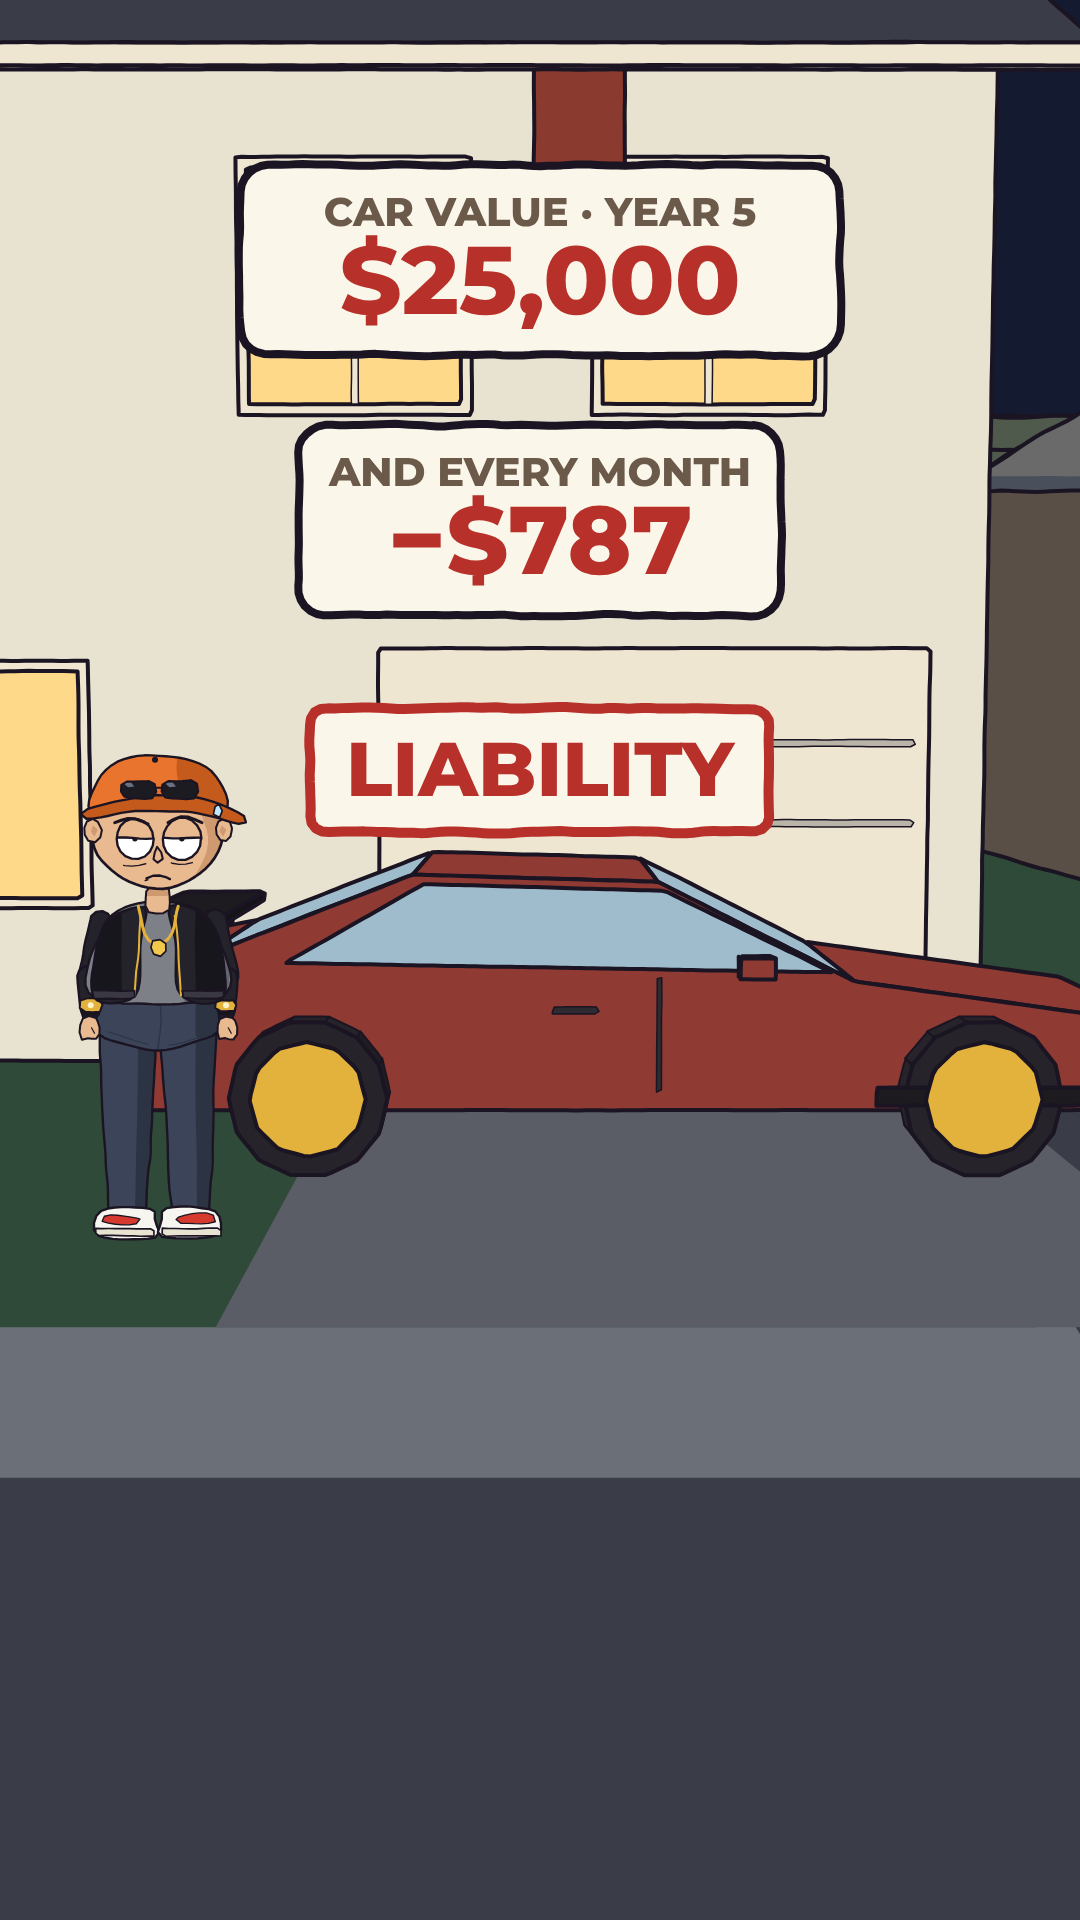
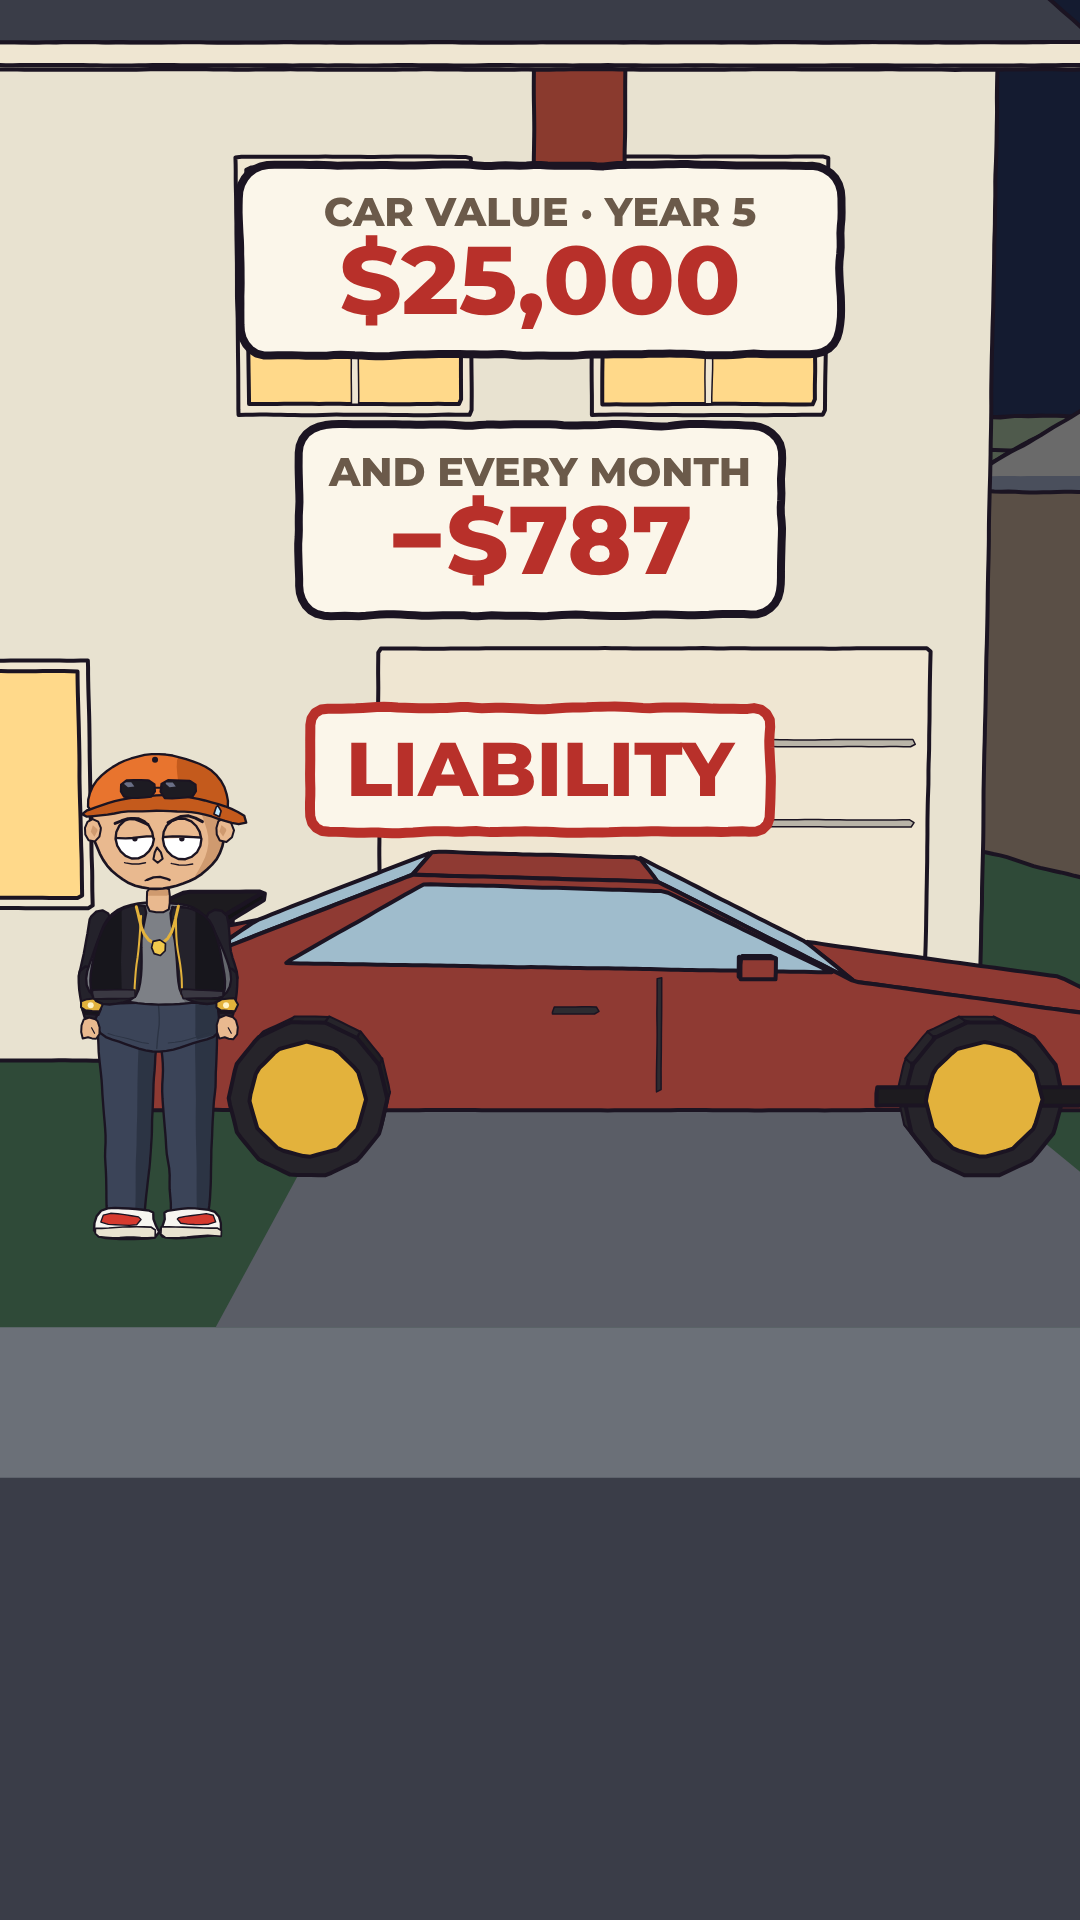
Town: the ground no longer slides with the camera; ep 3 re-rendered
Roads, pavements, grass and driveways are 600 m quads. In a low, close camera some corners fall behind it, and the
projection clamps them to a fixed spot on screen, so the ground's edge moved with the camera (seen in ep 3's pan between
the houses). gfill/gline clip ground shapes in 3D against a plane just in front of the camera before projecting.

Claude-Session: https://claude.ai/code/session_016c6ARmPUr2BrGtPLGExamv

diff --git a/reels/money/look2/wide.js b/reels/money/look2/wide.js
@@ -18,6 +18,16 @@ const view = { P: 9, pitch: .95, cx: 0, cy: 0, cz: 0, dist: 0 };   // dist > 0: 
 const SIN = () => Math.sin(view.pitch), COS = () => Math.cos(view.pitch);
 const sc = (x, z, h = 0) => view.dist ? view.P * view.dist / Math.max(.05, view.dist - ((z - view.cz) * SIN() + (h - view.cy) * COS())) : view.P;   // px per metre there
 const pj = (x, z, h = 0) => { const k = sc(x, z, h); return [540 + (x - view.cx) * k, 960 + ((z - view.cz) * COS() - (h - view.cy) * SIN()) * k]; };
+// Ground shapes (roads, pavements, grass, lots, driveways) are huge flat quads. A corner behind the camera cannot be projected:
+// sc() clamps its depth, so it lands at a fixed spot on screen and the ground's edge slides with the camera ("the road moves").
+// gfill clips the shape in 3D against a plane just in front of the camera before projecting it, so only what is in view is drawn.
+const depthAt = (x, z, h = 0) => view.dist ? view.dist - ((z - view.cz) * SIN() + (h - view.cy) * COS()) : 1;
+function clipFront(P, E = .3) {
+  const out = []; for (let i = 0; i < P.length; i++) { const a = P[i], b = P[(i + 1) % P.length], da = depthAt(...a) - E, db = depthAt(...b) - E;
+    if (da >= 0) out.push(a); if ((da >= 0) !== (db >= 0)) { const u = da / (da - db); out.push(a.map((v, k) => v + ((b[k] ?? 0) - v) * u)); } }
+  return out; }
+const gfill = (P, col, o = {}) => { const c = clipFront(P); if (c.length >= 3) fillOnly(c.map(p => pj(...p)), col, { boil: 0, ...o }); };
+const gline = (a, b, lw, o = {}) => { const c = clipFront([a, b, b]); if (c.length >= 2) stroke([pj(...c[0]), pj(...c[1])], lw, o); };
 // a box building: footprint x0..x1, z0..z1 (z grows toward the camera), height h; the roof and the front face show
 function building(x0, z0, x1, z1, h, wall, wallS, roof, { lit = .5, sign = null, seed = 1, door = false } = {}) {
   const f = [pj(x0, z1, 0), pj(x1, z1, 0), pj(x1, z1, h), pj(x0, z1, h)];
@@ -113,18 +123,18 @@ export function drawWide(t, cam = null, { tilt = true } = {}) { T_ = t;
   view.pitch = .78; view.P = 12.5 - t * .25; view.cx = 2 + t * .7; view.cy = 0; view.cz = 14 - t * .4; view.dist = 0; view.near = undefined; if (cam) Object.assign(view, cam);
   if (view.dist) view.near = Math.min(view.near ?? 1e9, eyeOf(view)[2]);   // nothing behind the camera
   g.setTransform(1, 0, 0, 1, 0, 0); g.fillStyle = C.sky; g.fillRect(0, 0, 1080, 1920);
-  fillOnly([pj(-300, -300), pj(300, -300), pj(300, 300), pj(-300, 300)], C.grass, { boil: 0 });
-  for (const z of ZS) { fillOnly([pj(-300, z - PW), pj(300, z - PW), pj(300, z + PW), pj(-300, z + PW)], C.walk, { boil: 0 }); }
-  for (const x of XS) { fillOnly([pj(x - PW, -300), pj(x + PW, -300), pj(x + PW, 300), pj(x - PW, 300)], C.walk, { boil: 0 }); }
-  for (const z of ZS) { fillOnly([pj(-300, z - RW), pj(300, z - RW), pj(300, z + RW), pj(-300, z + RW)], C.road, { boil: 0 }); for (let x = -300; x < 300; x += 6) fillOnly([pj(x, z - .15), pj(x + 3, z - .15), pj(x + 3, z + .15), pj(x, z + .15)], C.mark, { boil: 0 }); }
-  for (const x of XS) { fillOnly([pj(x - RW, -300), pj(x + RW, -300), pj(x + RW, 300), pj(x - RW, 300)], C.road, { boil: 0 }); for (let z = -300; z < 300; z += 6) if (!ZS.some(zz => Math.abs(z - zz) < 6)) fillOnly([pj(x - .15, z), pj(x + .15, z), pj(x + .15, z + 3), pj(x - .15, z + 3)], C.mark, { boil: 0 }); }
-  for (const x of XS) for (const z of ZS) for (let i = 0; i < 5; i++) fillOnly([pj(x - RW + .4 + i * 1.6, z + PW), pj(x - RW + 1.2 + i * 1.6, z + PW), pj(x - RW + 1.2 + i * 1.6, z + PW + 3), pj(x - RW + .4 + i * 1.6, z + PW + 3)], C.mark, { boil: 0 });   // crossings
+  gfill([[-300, -300], [300, -300], [300, 300], [-300, 300]], C.grass);
+  for (const z of ZS) { gfill([[-300, z - PW], [300, z - PW], [300, z + PW], [-300, z + PW]], C.walk); }
+  for (const x of XS) { gfill([[x - PW, -300], [x + PW, -300], [x + PW, 300], [x - PW, 300]], C.walk); }
+  for (const z of ZS) { gfill([[-300, z - RW], [300, z - RW], [300, z + RW], [-300, z + RW]], C.road); for (let x = -300; x < 300; x += 6) gfill([[x, z - .15], [x + 3, z - .15], [x + 3, z + .15], [x, z + .15]], C.mark); }
+  for (const x of XS) { gfill([[x - RW, -300], [x + RW, -300], [x + RW, 300], [x - RW, 300]], C.road); for (let z = -300; z < 300; z += 6) if (!ZS.some(zz => Math.abs(z - zz) < 6)) gfill([[x - .15, z], [x + .15, z], [x + .15, z + 3], [x - .15, z + 3]], C.mark); }
+  for (const x of XS) for (const z of ZS) for (let i = 0; i < 5; i++) gfill([[x - RW + .4 + i * 1.6, z + PW], [x - RW + 1.2 + i * 1.6, z + PW], [x - RW + 1.2 + i * 1.6, z + PW + 3], [x - RW + .4 + i * 1.6, z + PW + 3]], C.mark);   // crossings
   // the store's lot and its bays, and the light spilling from its windows
-  fillOnly([pj(-14, 26.5), pj(22, 26.5), pj(22, 39), pj(-14, 39)], C.lot, { boil: 0 });
-  for (let i = 0; i <= 12; i++) stroke([pj(-13 + i * M.parking.w, 33.5), pj(-13 + i * M.parking.w, 33.5 + M.parking.l)], 2, { line: '#d9d4b8' });
-  fillOnly([pj(-7, 27.2, 0), pj(13, 27.2, 0), pj(15, 32, 0), pj(-9, 32, 0)], 'rgba(255,230,160,.2)', { boil: 0 });
-  for (const H of Object.values(HOMES)) { const dx = H === HOMES.max ? H.x + 4.1 : H.x + 2.5; fillOnly([pj(dx - 1.7, H.z + H.d / 2), pj(dx + 1.7, H.z + H.d / 2), pj(dx + 1.7, -5.5), pj(dx - 1.7, -5.5)], '#5a5d66', { boil: 0 });   // the driveway
-    const px = H.x - H.w / 2 + (H === HOMES.max ? 2.0 : 3.6); fillOnly([pj(px - .6, H.z + H.d / 2 + 1.3), pj(px + .6, H.z + H.d / 2 + 1.3), pj(px + .6, -5.5), pj(px - .6, -5.5)], '#8a857a', { boil: 0 }); }   // the path to the door
+  gfill([[-14, 26.5], [22, 26.5], [22, 39], [-14, 39]], C.lot);
+  for (let i = 0; i <= 12; i++) gline([-13 + i * M.parking.w, 33.5], [-13 + i * M.parking.w, 33.5 + M.parking.l], 2, { line: '#d9d4b8' });
+  gfill([[-7, 27.2, 0], [13, 27.2, 0], [15, 32, 0], [-9, 32, 0]], 'rgba(255,230,160,.2)');
+  for (const H of Object.values(HOMES)) { const dx = H === HOMES.max ? H.x + 4.1 : H.x + 2.5; gfill([[dx - 1.7, H.z + H.d / 2], [dx + 1.7, H.z + H.d / 2], [dx + 1.7, -5.5], [dx - 1.7, -5.5]], '#5a5d66');   // the driveway
+    const px = H.x - H.w / 2 + (H === HOMES.max ? 2.0 : 3.6); gfill([[px - .6, H.z + H.d / 2 + 1.3], [px + .6, H.z + H.d / 2 + 1.3], [px + .6, -5.5], [px - .6, -5.5]], '#8a857a'); }   // the path to the door
   // trees and streetlights behind everything that stands
   for (const [x, z] of TREES) { if (z > (view.near ?? 1e9)) continue; const [a, b] = pj(x, z, 4), k = sc(x, z, 4); shape(ell(a, b, k * 2.4, k * 2.0, 20), { fill: '#24402e', lw: 3 }); }
   for (const x of XS) for (const z of ZS) { streetLight(x + PW, z + PW); }

diff --git a/reels/money/CONCEPT.md b/reels/money/CONCEPT.md
@@ -128,7 +128,9 @@ how the book is searched; we answer the idea, never use the name.
 - **Point of view shots:** a letter or a phone in his hands, at true size, the background out of focus (`look2/phonepov.js`).
 - **Numbers live on cards pinned to the objects**, popping in and counting; stamps for verdicts (LIABILITY, ASSET, IT DEPENDS).
 - **Split screens** for comparisons; the last line alone over a blurred, darkened frame.
-- **The camera always travels:** pushes, pulls, pans, the pull-out through the shop window and over the town.
+- **The camera always travels:** pushes, pulls, pans, the pull-out through the shop window and over the town. The ground stays put:
+  ground shapes are clipped at the camera before they are drawn (`gfill` in `look2/wide.js`); a shape drawn with corners behind
+  the camera slides with it.
 
 ## Production
 
